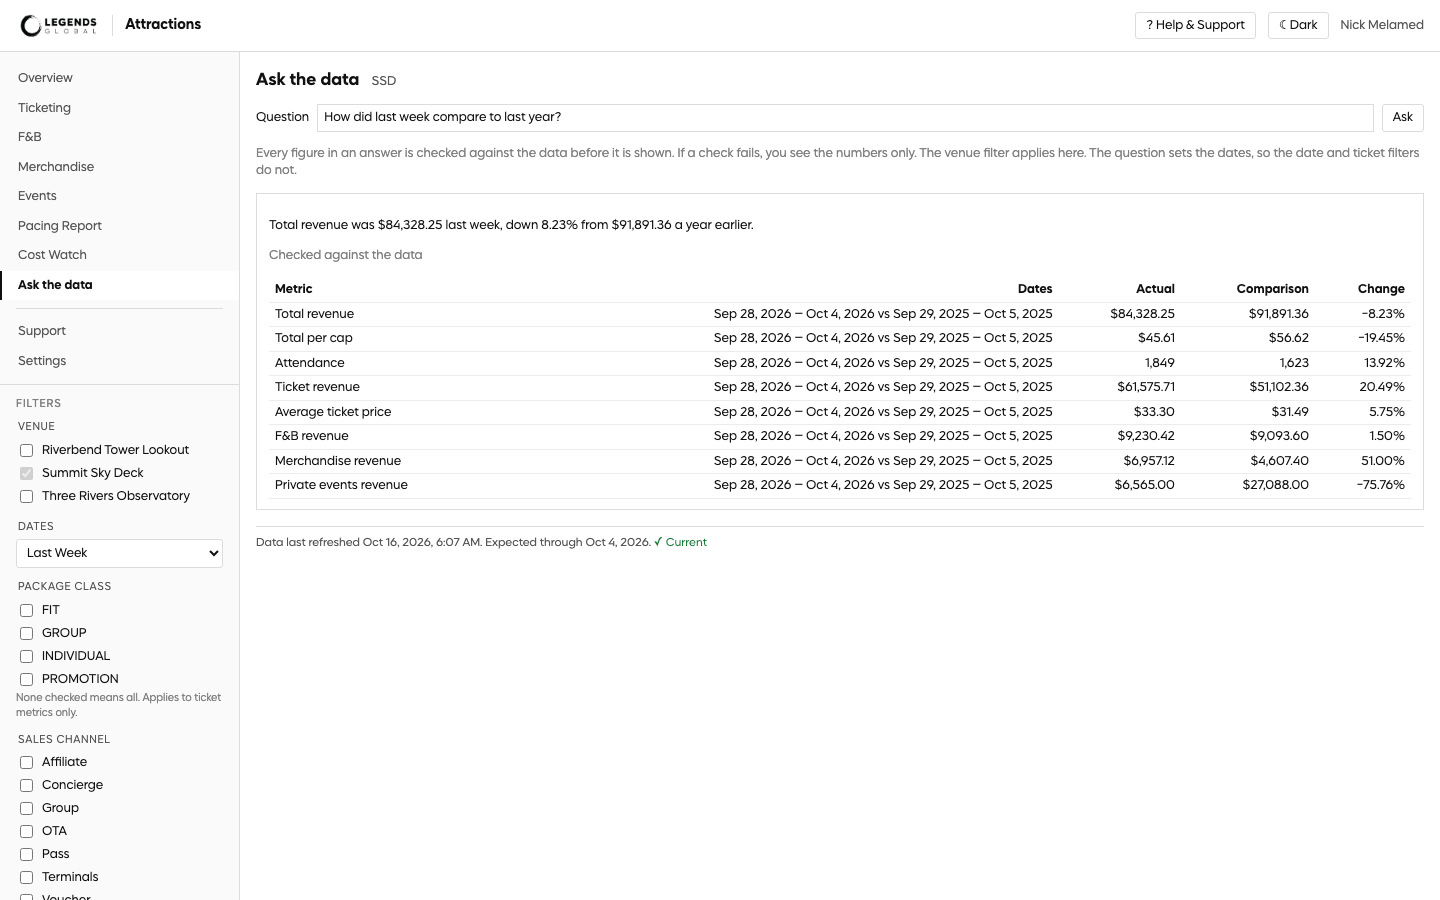
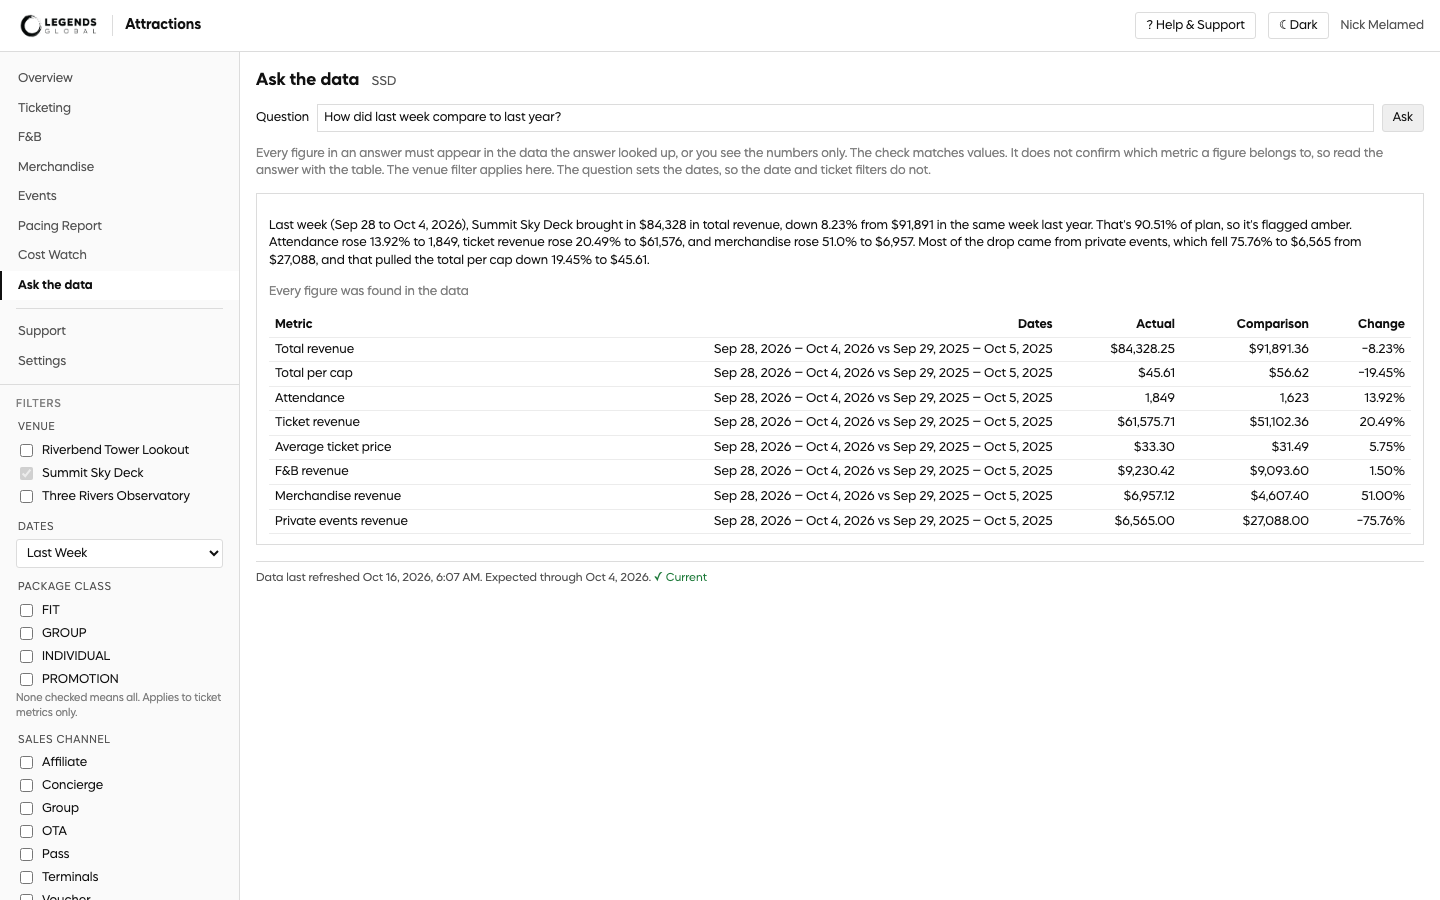
docs: retake the Ask screenshot with the recorded model answer

diff --git a/docs/AI_LOG.md b/docs/AI_LOG.md
@@ -289,3 +289,5 @@ no data for that day and that it "shouldn't be read as zero visitors",
 which is the behaviour the case wants. The forbidden list is too blunt.
 The case was left as is for Nick to decide, since cases.yaml is not edited
 to make a case pass.
+docs/screenshots/ask-1440-light.png was retaken with the recorded Opus
+answer and now shows model output, not the e2e fixture.
